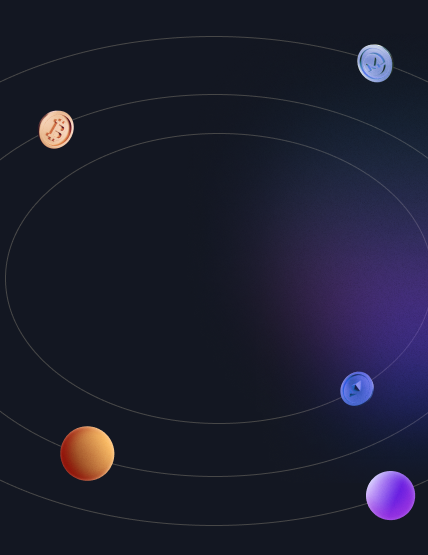
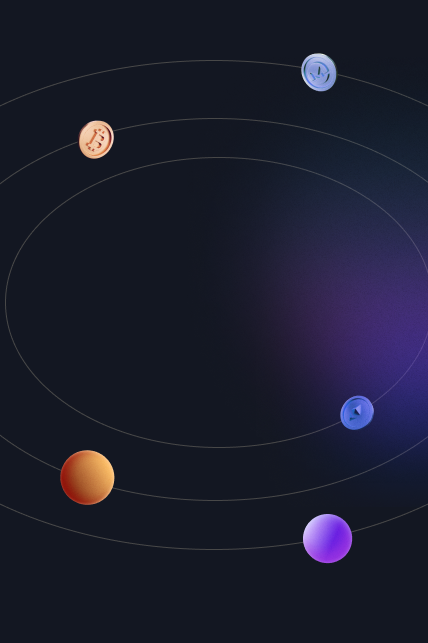
Added mobile background

diff --git a/style.css b/style.css
@@ -17,6 +17,16 @@ body{
     width: 100%;
 }
 
+@media (max-width: 858px){
+    body{
+        background: url(img/mobile-bg.png) no-repeat center;
+        background-size: cover;
+        background-position: center;
+        width: 100%;
+        height: 100vh;
+
+    }
+}
 
 /*Header start********************/
 nav{
